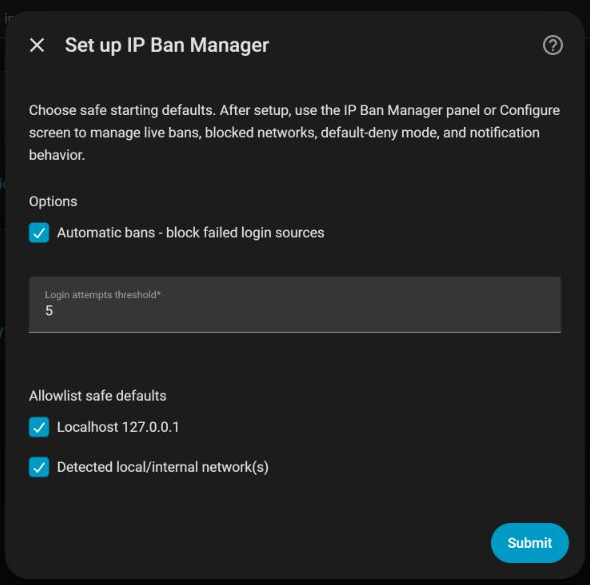
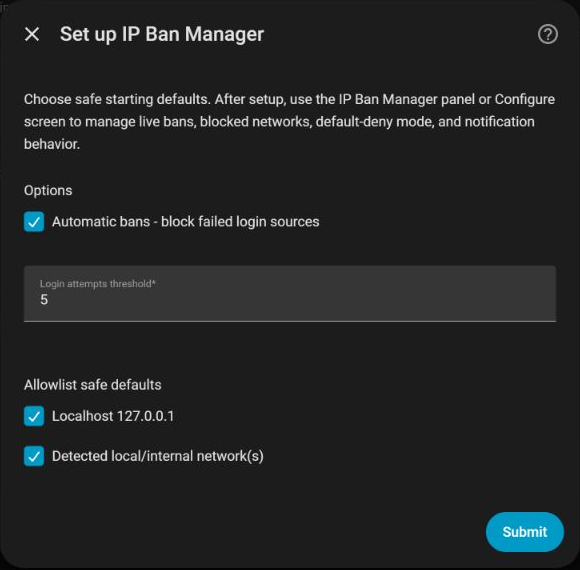
Restore focused documentation screenshots

diff --git a/README.md b/README.md
@@ -48,8 +48,35 @@ See the [release summary](RELEASES.md) for a quick version-by-version table, or 
 
 <table>
   <tr>
-    <td>
-      <img src="https://raw.githubusercontent.com/Wheemer/ip-ban-manager/main/docs/images/live-panel-v1.4.png" alt="IP Ban Manager live panel" width="100%">
+    <td width="50%">
+      <img src="https://raw.githubusercontent.com/Wheemer/ip-ban-manager/main/docs/images/setup-flow.png" alt="IP Ban Manager setup" width="100%">
+    </td>
+    <td width="50%">
+      <img src="https://raw.githubusercontent.com/Wheemer/ip-ban-manager/main/docs/images/panel-options.png" alt="IP Ban Manager options" width="100%">
+    </td>
+  </tr>
+  <tr>
+    <td width="50%">
+      <img src="https://raw.githubusercontent.com/Wheemer/ip-ban-manager/main/docs/images/panel-allowed-ips.png" alt="IP Ban Manager allowed IPs" width="100%">
+    </td>
+    <td width="50%">
+      <img src="https://raw.githubusercontent.com/Wheemer/ip-ban-manager/main/docs/images/panel-public-region-lock.png" alt="IP Ban Manager public region lock" width="100%">
+    </td>
+  </tr>
+  <tr>
+    <td width="50%">
+      <img src="https://raw.githubusercontent.com/Wheemer/ip-ban-manager/main/docs/images/panel-blocked-ips.png" alt="IP Ban Manager blocked IPs" width="100%">
+    </td>
+    <td width="50%">
+      <img src="https://raw.githubusercontent.com/Wheemer/ip-ban-manager/main/docs/images/panel-blocked-networks.png" alt="IP Ban Manager blocked networks" width="100%">
+    </td>
+  </tr>
+  <tr>
+    <td width="50%">
+      <img src="https://raw.githubusercontent.com/Wheemer/ip-ban-manager/main/docs/images/panel-nginx-proxy-manager.png" alt="IP Ban Manager NGINX Proxy Manager settings" width="100%">
+    </td>
+    <td width="50%">
+      <img src="https://raw.githubusercontent.com/Wheemer/ip-ban-manager/main/docs/images/panel-geoip-backup.png" alt="IP Ban Manager GeoIP and backup tools" width="100%">
     </td>
   </tr>
 </table>
